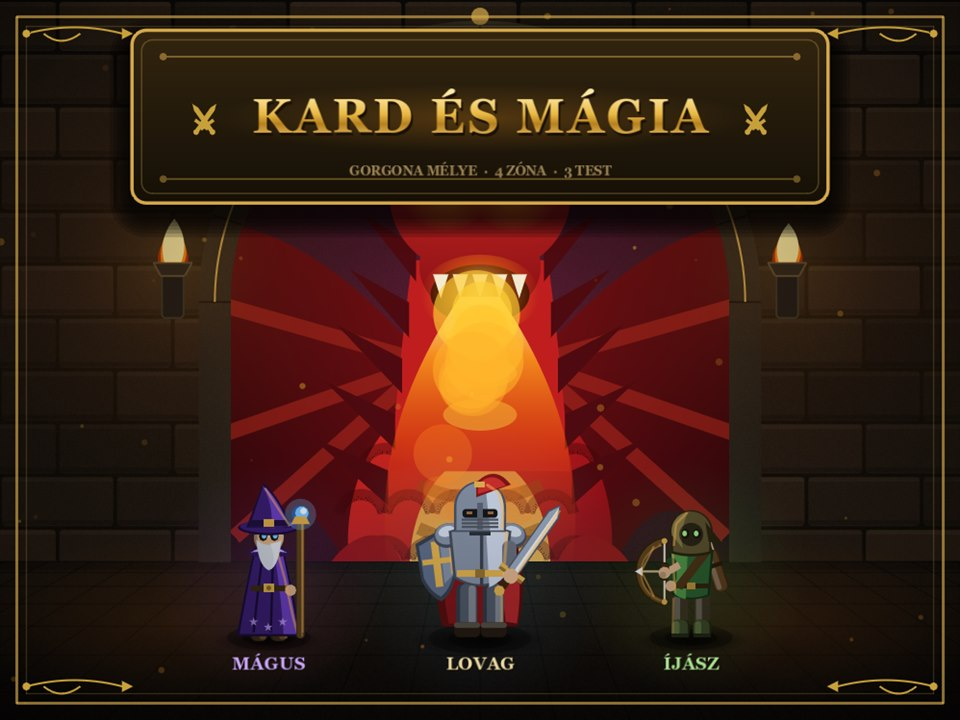
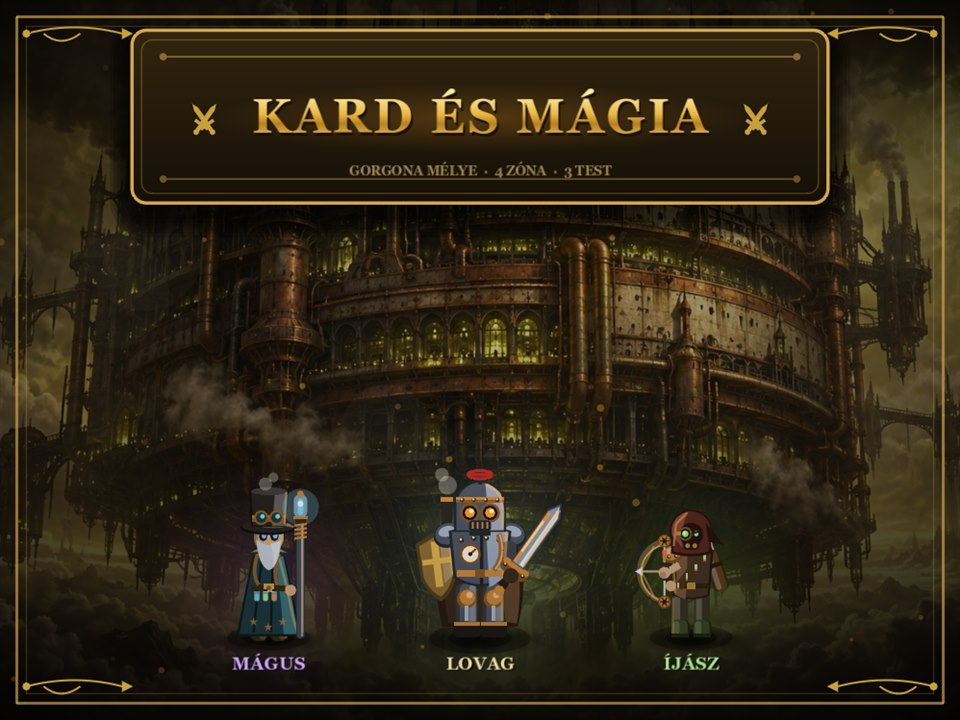
Honlap és launcher-borító: a Kard és Mágia új hősei és szörnyei (4.3)

diff --git a/docs/index.html b/docs/index.html
@@ -16,7 +16,7 @@
 <meta property="og:site_name" content="ParthLauncher">
 <meta property="og:title" content="ParthLauncher – Birodalom, Heptarchia és Kard és Mágia">
 <meta property="og:description" content="Három ingyenes játék egy indítóban: angolszász nagystratégia, valós idejű birodalomépítés és roguelike kaland. Windows és macOS.">
-<meta property="og:image" content="https://parthenon2-boop.github.io/birodalom/kepek/megosztas.jpg?v=3">
+<meta property="og:image" content="https://parthenon2-boop.github.io/birodalom/kepek/megosztas.jpg?v=4">
 <meta property="og:image:width" content="1200">
 <meta property="og:image:height" content="630">
 <meta property="og:url" content="https://parthenon2-boop.github.io/birodalom/">
@@ -26,7 +26,7 @@
 <meta name="twitter:card" content="summary_large_image">
 <meta name="twitter:title" content="ParthLauncher – három ingyenes játék">
 <meta name="twitter:description" content="Angolszász nagystratégia, valós idejű birodalomépítés és roguelike kaland. Ingyenes, Windows és macOS.">
-<meta name="twitter:image" content="https://parthenon2-boop.github.io/birodalom/kepek/megosztas.jpg?v=3">
+<meta name="twitter:image" content="https://parthenon2-boop.github.io/birodalom/kepek/megosztas.jpg?v=4">
 <link rel="preconnect" href="https://fonts.googleapis.com">
 <link rel="preconnect" href="https://fonts.gstatic.com" crossorigin>
 <link href="https://fonts.googleapis.com/css2?family=Cinzel:wght@600;700&family=EB+Garamond:ital,wght@0,400;0,600;1,400&display=swap" rel="stylesheet">
@@ -235,21 +235,21 @@
 			<p class="sub" data-i18n="games.sub">Mindegyik ingyenes. A ParthLauncher magától letölti és frissíti őket.</p>
 			<div class="grid">
 				<article class="card game" id="jatek-heptarchia">
-					<button class="shot" data-full="kepek/hep_wessex.jpg?v=3" aria-label="Heptarchia"><img src="kepek/hep_wessex.jpg?v=3" alt="Heptarchia" loading="lazy" width="1024" height="720"></button>
+					<button class="shot" data-full="kepek/hep_wessex.jpg?v=4" aria-label="Heptarchia"><img src="kepek/hep_wessex.jpg?v=4" alt="Heptarchia" loading="lazy" width="1024" height="720"></button>
 					<h3><a href="heptarchia.html" style="color:inherit;text-decoration:none">Heptarchia</a></h3>
 					<span class="tag" data-i18n="games.hep.tag">Angolszász nagystratégia, 790-től</span>
 					<p data-i18n="games.hep.desc">Vezesd Wessexet, Merciát vagy Northumbriát – vagy a skótokat, piktek és írek népeit. Diplomácia, Witan, egyház, lakosság és toborzás, a vikingek érkezése – a csatákat és ostromokat pedig magad vezényled a csatamezőn.</p>
 					<span class="pill" id="ver-heptarchia">…</span>
 				</article>
 				<article class="card game" id="jatek-birodalom">
-					<button class="shot" data-full="kepek/bir_csata.jpg?v=3" aria-label="Birodalom"><img src="kepek/bir_csata.jpg?v=3" alt="Birodalom" loading="lazy" width="1028" height="720"></button>
+					<button class="shot" data-full="kepek/bir_csata.jpg?v=4" aria-label="Birodalom"><img src="kepek/bir_csata.jpg?v=4" alt="Birodalom" loading="lazy" width="1028" height="720"></button>
 					<h3><a href="birodalom.html" style="color:inherit;text-decoration:none">Birodalom</a></h3>
 					<span class="tag" data-i18n="games.bir.tag">Valós idejű stratégia, 1400 – 1945</span>
 					<p data-i18n="games.bir.desc">Építs birodalmat öt és fél évszázadon át: gazdaság, hadsereg és nagyhatalmi politika a késő középkortól a modern korig.</p>
 					<span class="pill" id="ver-birodalom">…</span>
 				</article>
 				<article class="card game" id="jatek-kard">
-					<button class="shot" data-full="kepek/borito_kard_es_magia.jpg?v=3" aria-label="Kard és Mágia"><img src="kepek/borito_kard_es_magia.jpg?v=3" alt="Kard és Mágia" loading="lazy" width="960" height="540"></button>
+					<button class="shot" data-full="kepek/borito_kard_es_magia.jpg?v=4" aria-label="Kard és Mágia"><img src="kepek/borito_kard_es_magia.jpg?v=4" alt="Kard és Mágia" loading="lazy" width="960" height="540"></button>
 					<h3><a href="kard-es-magia.html" style="color:inherit;text-decoration:none">Kard és Mágia</a></h3>
 					<span class="tag" data-i18n="games.kard.tag">Roguelike kaland · négy zóna</span>
 					<p data-i18n="games.kard.desc">Lovag, mágus vagy íjász: ereszkedj le Gorgona négy zónáján át a Belső Magig. A lovag közelharcban erős, az íjász messziről sebez, a mágus kék varázsgömböt lő. Minden pálya bejárható.</p>
@@ -264,16 +264,16 @@
 			<h2 data-i18n="shots.title">Képek a játékokból</h2>
 			<p class="sub" data-i18n="shots.sub">Kattints egy képre a nagyításhoz.</p>
 			<div class="gallery">
-				<figure><button class="shot" data-full="kepek/hep_wessex.jpg?v=3"><img src="kepek/hep_wessex.jpg?v=3" alt="Heptarchia" loading="lazy" width="1024" height="720"></button><figcaption data-i18n="shot.hep1">Heptarchia – a Brit-szigetek 790-ben</figcaption></figure>
-				<figure><button class="shot" data-full="kepek/hep_anglia.jpg?v=3"><img src="kepek/hep_anglia.jpg?v=3" alt="Heptarchia" loading="lazy" width="1024" height="720"></button><figcaption data-i18n="shot.hep2">Heptarchia – Wessex, Mercia és Kelet-Anglia</figcaption></figure>
-				<figure><button class="shot" data-full="kepek/hep_csata_lovagroham.jpg?v=3"><img src="kepek/hep_csata_lovagroham.jpg?v=3" alt="Heptarchia" loading="lazy" width="1024" height="720"></button><figcaption data-i18n="shot.hep4">Heptarchia – normann lovagroham a csatamezőn</figcaption></figure>
-				<figure><button class="shot" data-full="kepek/hep_ostrom_falon.jpg?v=3"><img src="kepek/hep_ostrom_falon.jpg?v=3" alt="Heptarchia" loading="lazy" width="1024" height="720"></button><figcaption data-i18n="shot.hep5">Heptarchia – ostrom: védők a burh sáncán</figcaption></figure>
-				<figure><button class="shot" data-full="kepek/hep_rusz.jpg?v=3"><img src="kepek/hep_rusz.jpg?v=3" alt="A varégok útja" loading="lazy" width="1024" height="720"></button><figcaption data-i18n="shot.hep3">A varégok útja – Novgorodtól Kijevig</figcaption></figure>
-				<figure><button class="shot" data-full="kepek/kard_play.jpg?v=3"><img src="kepek/kard_play.jpg?v=3" alt="Kard és Mágia" loading="lazy" width="1028" height="642"></button><figcaption data-i18n="shot.kard">Kard és Mágia – válassz hőst</figcaption></figure>
-				<figure><button class="shot" data-full="kepek/kard_bolt.jpg?v=3"><img src="kepek/kard_bolt.jpg?v=3" alt="Kard és Mágia" loading="lazy" width="1028" height="642"></button><figcaption data-i18n="shot.kardbolt">Kard és Mágia – kinézet bolt</figcaption></figure>
-				<figure><button class="shot" data-full="kepek/bir_csata.jpg?v=3"><img src="kepek/bir_csata.jpg?v=3" alt="Birodalom" loading="lazy" width="1028" height="720"></button><figcaption data-i18n="shot.bir1">Birodalom – csata a 15. században</figcaption></figure>
-				<figure><button class="shot" data-full="kepek/bir_modern.jpg?v=3"><img src="kepek/bir_modern.jpg?v=3" alt="Birodalom" loading="lazy" width="1028" height="720"></button><figcaption data-i18n="shot.bir2">Birodalom – a világháborúk kora</figcaption></figure>
-				<figure><button class="shot" data-full="kepek/bir_tenger.jpg?v=3"><img src="kepek/bir_tenger.jpg?v=3" alt="Birodalom" loading="lazy" width="1028" height="720"></button><figcaption data-i18n="shot.bir3">Birodalom – kalózvilág, saját sziget a Karib-tengeren</figcaption></figure>
+				<figure><button class="shot" data-full="kepek/hep_wessex.jpg?v=4"><img src="kepek/hep_wessex.jpg?v=4" alt="Heptarchia" loading="lazy" width="1024" height="720"></button><figcaption data-i18n="shot.hep1">Heptarchia – a Brit-szigetek 790-ben</figcaption></figure>
+				<figure><button class="shot" data-full="kepek/hep_anglia.jpg?v=4"><img src="kepek/hep_anglia.jpg?v=4" alt="Heptarchia" loading="lazy" width="1024" height="720"></button><figcaption data-i18n="shot.hep2">Heptarchia – Wessex, Mercia és Kelet-Anglia</figcaption></figure>
+				<figure><button class="shot" data-full="kepek/hep_csata_lovagroham.jpg?v=4"><img src="kepek/hep_csata_lovagroham.jpg?v=4" alt="Heptarchia" loading="lazy" width="1024" height="720"></button><figcaption data-i18n="shot.hep4">Heptarchia – normann lovagroham a csatamezőn</figcaption></figure>
+				<figure><button class="shot" data-full="kepek/hep_ostrom_falon.jpg?v=4"><img src="kepek/hep_ostrom_falon.jpg?v=4" alt="Heptarchia" loading="lazy" width="1024" height="720"></button><figcaption data-i18n="shot.hep5">Heptarchia – ostrom: védők a burh sáncán</figcaption></figure>
+				<figure><button class="shot" data-full="kepek/hep_rusz.jpg?v=4"><img src="kepek/hep_rusz.jpg?v=4" alt="A varégok útja" loading="lazy" width="1024" height="720"></button><figcaption data-i18n="shot.hep3">A varégok útja – Novgorodtól Kijevig</figcaption></figure>
+				<figure><button class="shot" data-full="kepek/kard_play.jpg?v=4"><img src="kepek/kard_play.jpg?v=4" alt="Kard és Mágia" loading="lazy" width="1028" height="642"></button><figcaption data-i18n="shot.kard">Kard és Mágia – válassz hőst</figcaption></figure>
+				<figure><button class="shot" data-full="kepek/kard_bolt.jpg?v=4"><img src="kepek/kard_bolt.jpg?v=4" alt="Kard és Mágia" loading="lazy" width="1028" height="642"></button><figcaption data-i18n="shot.kardbolt">Kard és Mágia – kinézet bolt</figcaption></figure>
+				<figure><button class="shot" data-full="kepek/bir_csata.jpg?v=4"><img src="kepek/bir_csata.jpg?v=4" alt="Birodalom" loading="lazy" width="1028" height="720"></button><figcaption data-i18n="shot.bir1">Birodalom – csata a 15. században</figcaption></figure>
+				<figure><button class="shot" data-full="kepek/bir_modern.jpg?v=4"><img src="kepek/bir_modern.jpg?v=4" alt="Birodalom" loading="lazy" width="1028" height="720"></button><figcaption data-i18n="shot.bir2">Birodalom – a világháborúk kora</figcaption></figure>
+				<figure><button class="shot" data-full="kepek/bir_tenger.jpg?v=4"><img src="kepek/bir_tenger.jpg?v=4" alt="Birodalom" loading="lazy" width="1028" height="720"></button><figcaption data-i18n="shot.bir3">Birodalom – kalózvilág, saját sziget a Karib-tengeren</figcaption></figure>
 			</div>
 		</div>
 	</section>

diff --git a/docs/kard-es-magia.html b/docs/kard-es-magia.html
@@ -15,10 +15,10 @@
 <meta property="og:site_name" content="ParthLauncher">
 <meta property="og:title" content="Kard és Mágia – roguelike kaland Gorgona mélyén">
 <meta property="og:description" content="Ingyenes roguelike: lovag, mágus vagy íjász, négy zóna és négy kétfázisú főellenség a lebegő város, Gorgona mélyén. Windows és macOS.">
-<meta property="og:image" content="https://parthenon2-boop.github.io/birodalom/kepek/borito_kard_es_magia.jpg?v=3">
+<meta property="og:image" content="https://parthenon2-boop.github.io/birodalom/kepek/borito_kard_es_magia.jpg?v=4">
 <meta property="og:url" content="https://parthenon2-boop.github.io/birodalom/kard-es-magia.html">
 <meta name="twitter:card" content="summary_large_image">
-<meta name="twitter:image" content="https://parthenon2-boop.github.io/birodalom/kepek/borito_kard_es_magia.jpg?v=3">
+<meta name="twitter:image" content="https://parthenon2-boop.github.io/birodalom/kepek/borito_kard_es_magia.jpg?v=4">
 <link rel="preconnect" href="https://fonts.googleapis.com">
 <link rel="preconnect" href="https://fonts.gstatic.com" crossorigin>
 <link href="https://fonts.googleapis.com/css2?family=Cinzel:wght@600;700&family=EB+Garamond:ital,wght@0,400;0,600;1,400&display=swap" rel="stylesheet">
@@ -168,15 +168,15 @@
 		<div class="wrap">
 			<h2 data-i18n="shots.title">Képek</h2>
 			<div class="grid">
-				<figure><button class="shot" type="button" data-full="kepek/borito_kard_es_magia.jpg?v=3"><img src="kepek/borito_kard_es_magia.jpg?v=3" alt="Kard és Mágia – borítókép a három hőssel" loading="lazy" width="960" height="540"></button><figcaption data-i18n="s1">A három hős</figcaption></figure>
-				<figure><button class="shot" type="button" data-full="kepek/kard_menu.jpg?v=3"><img src="kepek/kard_menu.jpg?v=3" alt="Kard és Mágia – főmenü" loading="lazy" width="1028" height="642"></button><figcaption data-i18n="s2">A főmenü</figcaption></figure>
-				<figure><button class="shot" type="button" data-full="kepek/kard_play.jpg?v=3"><img src="kepek/kard_play.jpg?v=3" alt="Kard és Mágia – hősválasztó" loading="lazy" width="1028" height="642"></button><figcaption data-i18n="s3">Válassz hőst</figcaption></figure>
-				<figure><button class="shot" type="button" data-full="kepek/kard_bolt.jpg?v=3"><img src="kepek/kard_bolt.jpg?v=3" alt="Kard és Mágia – kinézet bolt" loading="lazy" width="1028" height="642"></button><figcaption data-i18n="s4">A kinézet bolt</figcaption></figure>
-				<figure><button class="shot" type="button" data-full="kepek/kard_harc.jpg?v=3"><img src="kepek/kard_harc.jpg?v=3" alt="Kard és Mágia – főellenség: Karel Doktor" loading="lazy" width="1028" height="642"></button><figcaption data-i18n="s5">Főellenség: a pirosan villogó mezők egy kör múlva robbannak</figcaption></figure>
-				<figure><button class="shot" type="button" data-full="kepek/kard_zona.jpg?v=3"><img src="kepek/kard_zona.jpg?v=3" alt="Kard és Mágia – a Tüdő-Kert" loading="lazy" width="1028" height="642"></button><figcaption data-i18n="s6">Négy zóna, mind saját színvilággal</figcaption></figure>
-				<figure><button class="shot" type="button" data-full="kepek/kard_intro.jpg?v=3"><img src="kepek/kard_intro.jpg?v=3" alt="Kard és Mágia – a bevezető: Gorgona" loading="lazy" width="1028" height="642"></button><figcaption data-i18n="s7">Gorgona, a lebegő város – a történet bevezetője</figcaption></figure>
-				<figure><button class="shot" type="button" data-full="kepek/kard_muterem.jpg?v=3"><img src="kepek/kard_muterem.jpg?v=3" alt="Kard és Mágia – a Műtőterem" loading="lazy" width="1028" height="642"></button><figcaption data-i18n="s8">A Műtőterem: állandó fejlesztések két kaland között</figcaption></figure>
-				<figure><button class="shot" type="button" data-full="kepek/kard_mentesek.jpg?v=3"><img src="kepek/kard_mentesek.jpg?v=3" alt="Kard és Mágia – mentések" loading="lazy" width="1028" height="642"></button><figcaption data-i18n="s9">Több mentés, a fiókodhoz kötve</figcaption></figure>
+				<figure><button class="shot" type="button" data-full="kepek/borito_kard_es_magia.jpg?v=4"><img src="kepek/borito_kard_es_magia.jpg?v=4" alt="Kard és Mágia – borítókép a három hőssel" loading="lazy" width="960" height="540"></button><figcaption data-i18n="s1">A három hős</figcaption></figure>
+				<figure><button class="shot" type="button" data-full="kepek/kard_menu.jpg?v=4"><img src="kepek/kard_menu.jpg?v=4" alt="Kard és Mágia – főmenü" loading="lazy" width="1028" height="642"></button><figcaption data-i18n="s2">A főmenü</figcaption></figure>
+				<figure><button class="shot" type="button" data-full="kepek/kard_play.jpg?v=4"><img src="kepek/kard_play.jpg?v=4" alt="Kard és Mágia – hősválasztó" loading="lazy" width="1028" height="642"></button><figcaption data-i18n="s3">Válassz hőst</figcaption></figure>
+				<figure><button class="shot" type="button" data-full="kepek/kard_bolt.jpg?v=4"><img src="kepek/kard_bolt.jpg?v=4" alt="Kard és Mágia – kinézet bolt" loading="lazy" width="1028" height="642"></button><figcaption data-i18n="s4">A kinézet bolt</figcaption></figure>
+				<figure><button class="shot" type="button" data-full="kepek/kard_harc.jpg?v=4"><img src="kepek/kard_harc.jpg?v=4" alt="Kard és Mágia – főellenség: Karel Doktor" loading="lazy" width="1028" height="642"></button><figcaption data-i18n="s5">Főellenség: a pirosan villogó mezők egy kör múlva robbannak</figcaption></figure>
+				<figure><button class="shot" type="button" data-full="kepek/kard_zona.jpg?v=4"><img src="kepek/kard_zona.jpg?v=4" alt="Kard és Mágia – a Tüdő-Kert" loading="lazy" width="1028" height="642"></button><figcaption data-i18n="s6">Négy zóna, mind saját színvilággal</figcaption></figure>
+				<figure><button class="shot" type="button" data-full="kepek/kard_intro.jpg?v=4"><img src="kepek/kard_intro.jpg?v=4" alt="Kard és Mágia – a bevezető: Gorgona" loading="lazy" width="1028" height="642"></button><figcaption data-i18n="s7">Gorgona, a lebegő város – a történet bevezetője</figcaption></figure>
+				<figure><button class="shot" type="button" data-full="kepek/kard_muterem.jpg?v=4"><img src="kepek/kard_muterem.jpg?v=4" alt="Kard és Mágia – a Műtőterem" loading="lazy" width="1028" height="642"></button><figcaption data-i18n="s8">A Műtőterem: állandó fejlesztések két kaland között</figcaption></figure>
+				<figure><button class="shot" type="button" data-full="kepek/kard_mentesek.jpg?v=4"><img src="kepek/kard_mentesek.jpg?v=4" alt="Kard és Mágia – mentések" loading="lazy" width="1028" height="642"></button><figcaption data-i18n="s9">Több mentés, a fiókodhoz kötve</figcaption></figure>
 			</div>
 		</div>
 	</section>
@@ -343,7 +343,7 @@
 	"inLanguage": "hu",
 	"playMode": "SinglePlayer",
 	"applicationCategory": "Game",
-	"image": "https://parthenon2-boop.github.io/birodalom/kepek/borito_kard_es_magia.jpg?v=3",
+	"image": "https://parthenon2-boop.github.io/birodalom/kepek/borito_kard_es_magia.jpg?v=4",
 	"url": "https://parthenon2-boop.github.io/birodalom/kard-es-magia.html",
 	"downloadUrl": "https://github.com/Parthenon2-boop/birodalom/releases/latest",
 	"offers": { "@type": "Offer", "price": "0", "priceCurrency": "USD", "availability": "https://schema.org/InStock" }

diff --git a/docs/heptarchia.html b/docs/heptarchia.html
@@ -15,10 +15,10 @@
 <meta property="og:site_name" content="ParthLauncher">
 <meta property="og:title" content="Heptarchia – angolszász nagystratégia 790-től">
 <meta property="og:description" content="Ingyenes nagystratégia: Wessex, Mercia, Northumbria, a Witan, az egyház és a vikingek érkezése. Windows és macOS.">
-<meta property="og:image" content="https://parthenon2-boop.github.io/birodalom/kepek/hep_wessex.jpg?v=3">
+<meta property="og:image" content="https://parthenon2-boop.github.io/birodalom/kepek/hep_wessex.jpg?v=4">
 <meta property="og:url" content="https://parthenon2-boop.github.io/birodalom/heptarchia.html">
 <meta name="twitter:card" content="summary_large_image">
-<meta name="twitter:image" content="https://parthenon2-boop.github.io/birodalom/kepek/hep_wessex.jpg?v=3">
+<meta name="twitter:image" content="https://parthenon2-boop.github.io/birodalom/kepek/hep_wessex.jpg?v=4">
 <link rel="preconnect" href="https://fonts.googleapis.com">
 <link rel="preconnect" href="https://fonts.gstatic.com" crossorigin>
 <link href="https://fonts.googleapis.com/css2?family=Cinzel:wght@600;700&family=EB+Garamond:ital,wght@0,400;0,600;1,400&display=swap" rel="stylesheet">
@@ -133,11 +133,11 @@
 				<article class="card"><h3 data-i18n="b5.t">Élő csaták többjátékos módban</h3><p data-i18n="b5.b">Többjátékos játszmában a két fél élőben, egymás ellen vívja meg a csatát.</p></article>
 			</div>
 			<div class="grid" style="margin-top:18px">
-				<figure><img src="kepek/hep_csata_pajzsfal.jpg?v=3" data-i18n-alt="alt.b1" alt="Heptarchia csata – két pajzsfal összecsapása" loading="lazy" width="1024" height="720"><figcaption data-i18n="cs1">Pajzsfal a pajzsfal ellen</figcaption></figure>
-				<figure><img src="kepek/hep_csata_lovagroham.jpg?v=3" data-i18n-alt="alt.b2" alt="Heptarchia csata – normann lovagok rohama Senlacnál" loading="lazy" width="1024" height="720"><figcaption data-i18n="cs2">Normann lovagroham Senlacnál</figcaption></figure>
-				<figure><img src="kepek/hep_csata_les.jpg?v=3" data-i18n-alt="alt.b3" alt="Heptarchia csata – walesi dárdavetők lese az erdőből" loading="lazy" width="1024" height="720"><figcaption data-i18n="cs3">Les az erdőből: walesi dárdavetők</figcaption></figure>
-				<figure><img src="kepek/hep_ostrom_falon.jpg?v=3" data-i18n-alt="alt.b4" alt="Heptarchia ostrom – védők egy burh sáncán" loading="lazy" width="1024" height="720"><figcaption data-i18n="cs4">Védők a burh sáncán</figcaption></figure>
-				<figure><img src="kepek/hep_ostrom_kos.jpg?v=3" data-i18n-alt="alt.b5" alt="Heptarchia ostrom – faltörő kos a burh kapujánál" loading="lazy" width="1024" height="720"><figcaption data-i18n="cs5">Faltörő kos a kapunál</figcaption></figure>
+				<figure><img src="kepek/hep_csata_pajzsfal.jpg?v=4" data-i18n-alt="alt.b1" alt="Heptarchia csata – két pajzsfal összecsapása" loading="lazy" width="1024" height="720"><figcaption data-i18n="cs1">Pajzsfal a pajzsfal ellen</figcaption></figure>
+				<figure><img src="kepek/hep_csata_lovagroham.jpg?v=4" data-i18n-alt="alt.b2" alt="Heptarchia csata – normann lovagok rohama Senlacnál" loading="lazy" width="1024" height="720"><figcaption data-i18n="cs2">Normann lovagroham Senlacnál</figcaption></figure>
+				<figure><img src="kepek/hep_csata_les.jpg?v=4" data-i18n-alt="alt.b3" alt="Heptarchia csata – walesi dárdavetők lese az erdőből" loading="lazy" width="1024" height="720"><figcaption data-i18n="cs3">Les az erdőből: walesi dárdavetők</figcaption></figure>
+				<figure><img src="kepek/hep_ostrom_falon.jpg?v=4" data-i18n-alt="alt.b4" alt="Heptarchia ostrom – védők egy burh sáncán" loading="lazy" width="1024" height="720"><figcaption data-i18n="cs4">Védők a burh sáncán</figcaption></figure>
+				<figure><img src="kepek/hep_ostrom_kos.jpg?v=4" data-i18n-alt="alt.b5" alt="Heptarchia ostrom – faltörő kos a burh kapujánál" loading="lazy" width="1024" height="720"><figcaption data-i18n="cs5">Faltörő kos a kapunál</figcaption></figure>
 			</div>
 		</div>
 	</section>
@@ -160,9 +160,9 @@
 		<div class="wrap">
 			<h2 data-i18n="shots.title">Képek</h2>
 			<div class="grid">
-				<figure><img src="kepek/hep_wessex.jpg?v=3" alt="Heptarchia – a Brit-szigetek térképe 790-ben" loading="lazy" width="1024" height="720"><figcaption data-i18n="s1">A Brit-szigetek 790-ben</figcaption></figure>
-				<figure><img src="kepek/hep_anglia.jpg?v=3" alt="Heptarchia – Wessex, Mercia és Kelet-Anglia" loading="lazy" width="1024" height="720"><figcaption data-i18n="s2">Wessex, Mercia és Kelet-Anglia</figcaption></figure>
-				<figure><img src="kepek/hep_rusz.jpg?v=3" alt="A varégok útja kiegészítő – a Rusz" loading="lazy" width="1024" height="720"><figcaption data-i18n="s3">A varégok útja kiegészítő: Novgorodtól Kijevig</figcaption></figure>
+				<figure><img src="kepek/hep_wessex.jpg?v=4" alt="Heptarchia – a Brit-szigetek térképe 790-ben" loading="lazy" width="1024" height="720"><figcaption data-i18n="s1">A Brit-szigetek 790-ben</figcaption></figure>
+				<figure><img src="kepek/hep_anglia.jpg?v=4" alt="Heptarchia – Wessex, Mercia és Kelet-Anglia" loading="lazy" width="1024" height="720"><figcaption data-i18n="s2">Wessex, Mercia és Kelet-Anglia</figcaption></figure>
+				<figure><img src="kepek/hep_rusz.jpg?v=4" alt="A varégok útja kiegészítő – a Rusz" loading="lazy" width="1024" height="720"><figcaption data-i18n="s3">A varégok útja kiegészítő: Novgorodtól Kijevig</figcaption></figure>
 			</div>
 		</div>
 	</section>
@@ -355,7 +355,7 @@
 	"operatingSystem": "Windows, macOS",
 	"inLanguage": ["hu", "en", "de"],
 	"applicationCategory": "Game",
-	"image": "https://parthenon2-boop.github.io/birodalom/kepek/hep_wessex.jpg?v=3",
+	"image": "https://parthenon2-boop.github.io/birodalom/kepek/hep_wessex.jpg?v=4",
 	"url": "https://parthenon2-boop.github.io/birodalom/heptarchia.html",
 	"offers": { "@type": "Offer", "price": "0", "priceCurrency": "USD", "availability": "https://schema.org/InStock" }
 }

diff --git a/docs/birodalom.html b/docs/birodalom.html
@@ -15,10 +15,10 @@
 <meta property="og:site_name" content="ParthLauncher">
 <meta property="og:title" content="Birodalom – valós idejű stratégia 1400-tól 1945-ig">
 <meta property="og:description" content="Ingyenes valós idejű stratégia: négy korszak a késő középkortól a világháborúkig, tizenegy nemzet, kalózvilág, hadjáratok és többjátékos mód. Windows és macOS.">
-<meta property="og:image" content="https://parthenon2-boop.github.io/birodalom/kepek/bir_csata.jpg?v=3">
+<meta property="og:image" content="https://parthenon2-boop.github.io/birodalom/kepek/bir_csata.jpg?v=4">
 <meta property="og:url" content="https://parthenon2-boop.github.io/birodalom/birodalom.html">
 <meta name="twitter:card" content="summary_large_image">
-<meta name="twitter:image" content="https://parthenon2-boop.github.io/birodalom/kepek/bir_csata.jpg?v=3">
+<meta name="twitter:image" content="https://parthenon2-boop.github.io/birodalom/kepek/bir_csata.jpg?v=4">
 <link rel="preconnect" href="https://fonts.googleapis.com">
 <link rel="preconnect" href="https://fonts.gstatic.com" crossorigin>
 <link href="https://fonts.googleapis.com/css2?family=Cinzel:wght@600;700&family=EB+Garamond:ital,wght@0,400;0,600;1,400&display=swap" rel="stylesheet">
@@ -152,10 +152,10 @@
 		<div class="wrap">
 			<h2 data-i18n="shots.title">Képek</h2>
 			<div class="grid">
-				<figure><button class="shot" type="button" data-full="kepek/bir_csata.jpg?v=3"><img src="kepek/bir_csata.jpg?v=3" alt="Birodalom – csata egy 15. századi város alatt" loading="lazy" width="1028" height="720"></button><figcaption data-i18n="s1">Csata a 15. században</figcaption></figure>
-				<figure><button class="shot" type="button" data-full="kepek/bir_kozepkor.jpg?v=3"><img src="kepek/bir_kozepkor.jpg?v=3" alt="Birodalom – középkori város laktanyával" loading="lazy" width="1028" height="720"></button><figcaption data-i18n="s2">Középkori város, a laktanyában képzés folyik</figcaption></figure>
-				<figure><button class="shot" type="button" data-full="kepek/bir_modern.jpg?v=3"><img src="kepek/bir_modern.jpg?v=3" alt="Birodalom – a világháborúk kora" loading="lazy" width="1028" height="720"></button><figcaption data-i18n="s3">A világháborúk kora</figcaption></figure>
-				<figure><button class="shot" type="button" data-full="kepek/bir_tenger.jpg?v=3"><img src="kepek/bir_tenger.jpg?v=3" alt="Birodalom – sziget a kalózvilágban" loading="lazy" width="1028" height="720"></button><figcaption data-i18n="s4">Kalózvilág: saját sziget a Karib-tengeren</figcaption></figure>
+				<figure><button class="shot" type="button" data-full="kepek/bir_csata.jpg?v=4"><img src="kepek/bir_csata.jpg?v=4" alt="Birodalom – csata egy 15. századi város alatt" loading="lazy" width="1028" height="720"></button><figcaption data-i18n="s1">Csata a 15. században</figcaption></figure>
+				<figure><button class="shot" type="button" data-full="kepek/bir_kozepkor.jpg?v=4"><img src="kepek/bir_kozepkor.jpg?v=4" alt="Birodalom – középkori város laktanyával" loading="lazy" width="1028" height="720"></button><figcaption data-i18n="s2">Középkori város, a laktanyában képzés folyik</figcaption></figure>
+				<figure><button class="shot" type="button" data-full="kepek/bir_modern.jpg?v=4"><img src="kepek/bir_modern.jpg?v=4" alt="Birodalom – a világháborúk kora" loading="lazy" width="1028" height="720"></button><figcaption data-i18n="s3">A világháborúk kora</figcaption></figure>
+				<figure><button class="shot" type="button" data-full="kepek/bir_tenger.jpg?v=4"><img src="kepek/bir_tenger.jpg?v=4" alt="Birodalom – sziget a kalózvilágban" loading="lazy" width="1028" height="720"></button><figcaption data-i18n="s4">Kalózvilág: saját sziget a Karib-tengeren</figcaption></figure>
 			</div>
 		</div>
 	</section>
@@ -318,7 +318,7 @@
 	"inLanguage": ["hu", "en", "de"],
 	"playMode": ["SinglePlayer", "MultiPlayer"],
 	"applicationCategory": "Game",
-	"image": "https://parthenon2-boop.github.io/birodalom/kepek/bir_csata.jpg?v=3",
+	"image": "https://parthenon2-boop.github.io/birodalom/kepek/bir_csata.jpg?v=4",
 	"url": "https://parthenon2-boop.github.io/birodalom/birodalom.html",
 	"downloadUrl": "https://github.com/Parthenon2-boop/birodalom/releases/latest",
 	"offers": { "@type": "Offer", "price": "0", "priceCurrency": "USD", "availability": "https://schema.org/InStock" }
